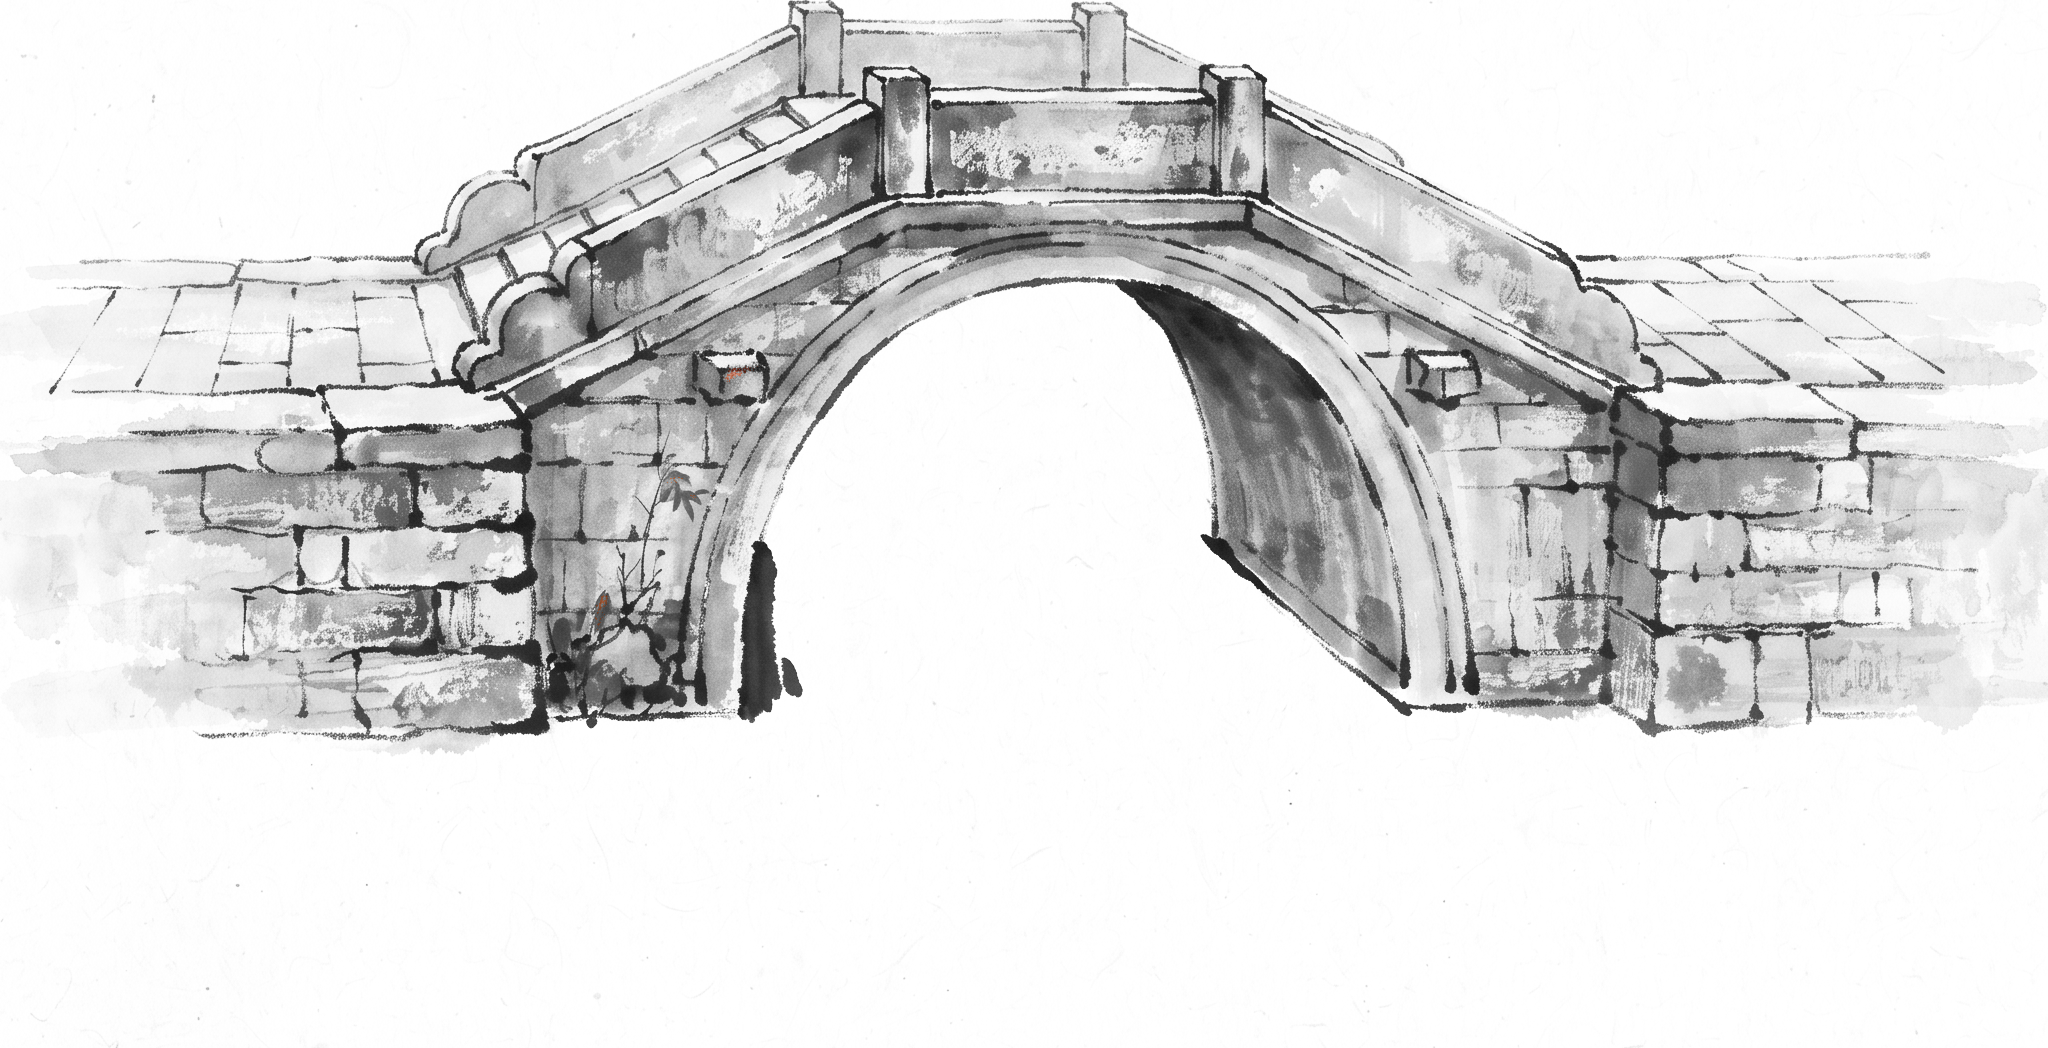
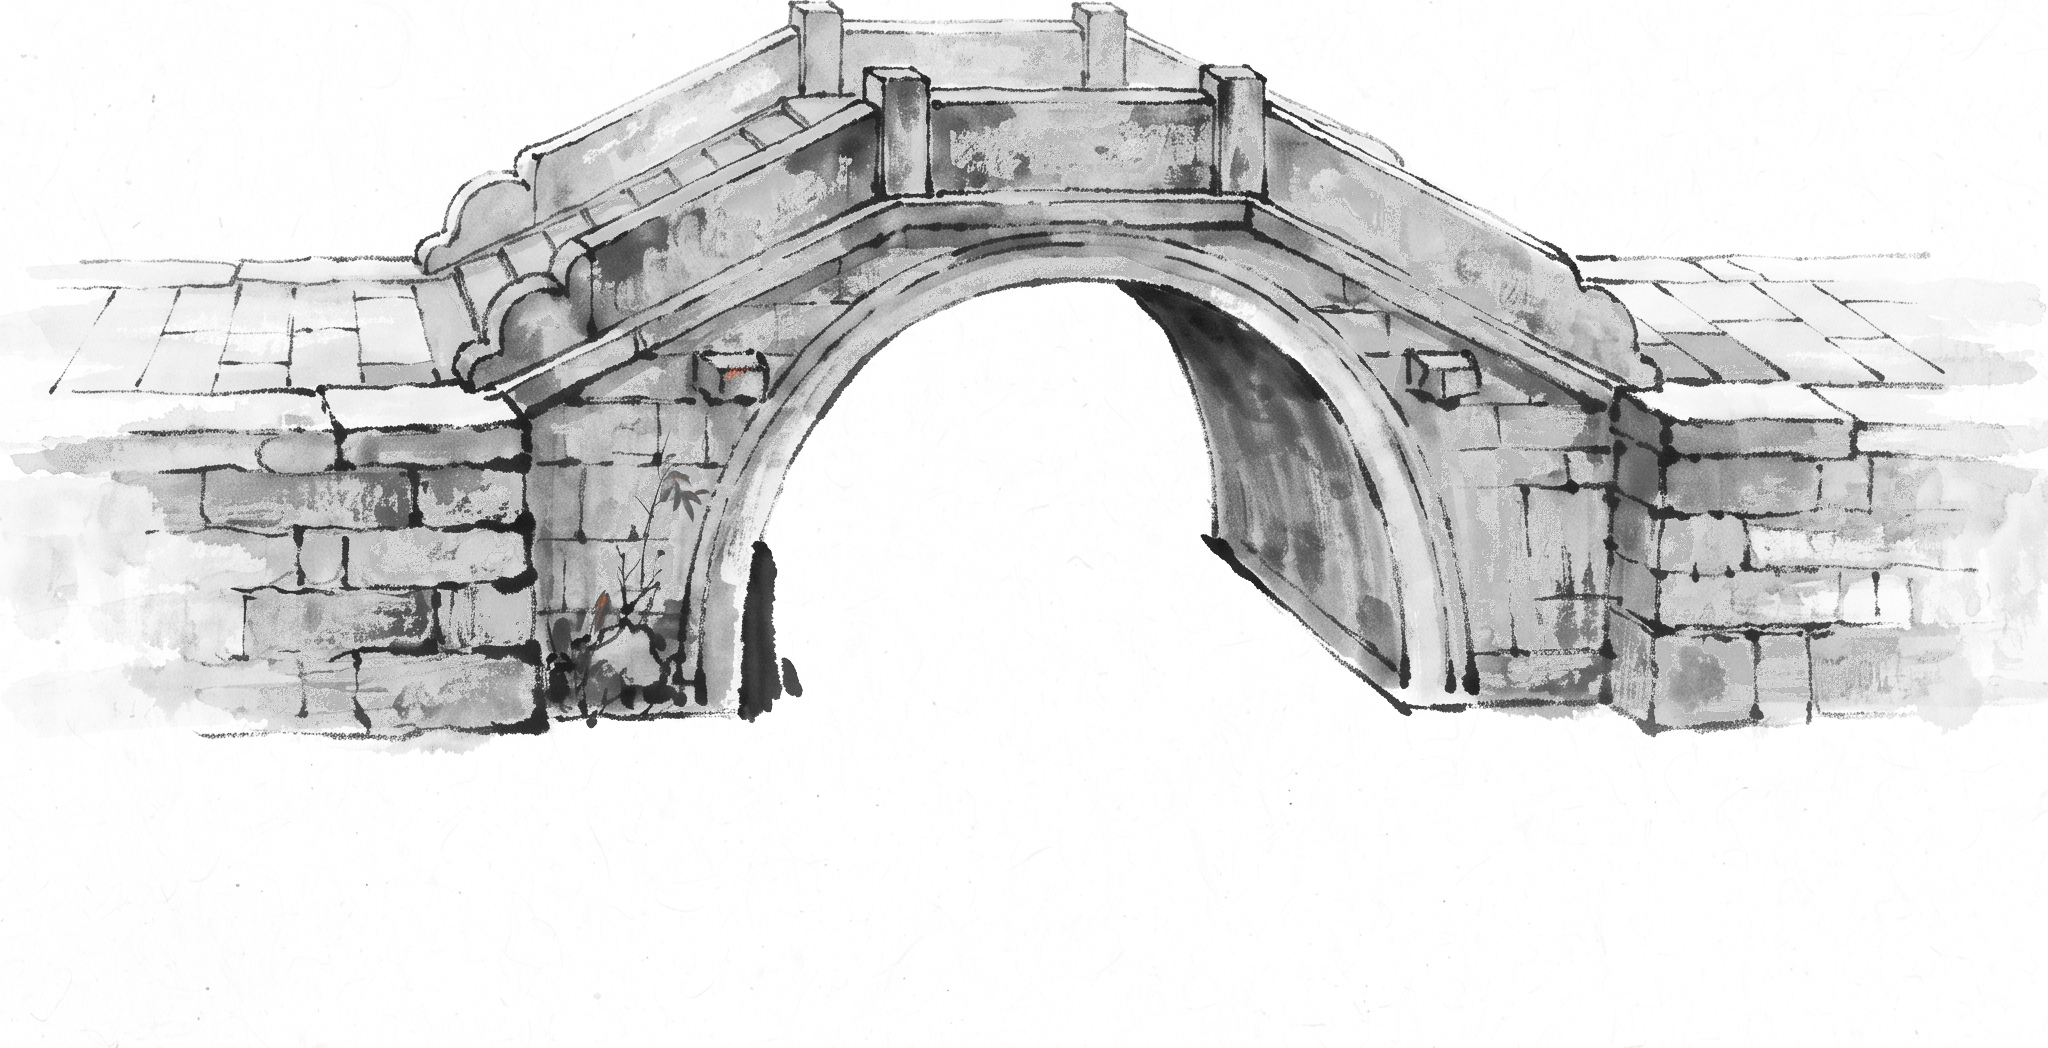
Seal the arch - she could see the wall through the bridge
The bridge's arch is drawn as bare paper, and alpha_plate turns bare
paper transparent, so the embankment BEHIND the bridge showed through
its own arch. She could see the wall she was walking along through the
hole in the bridge.

A pipeline artefact rather than an art problem, so it is fixed in the
pipeline. alpha_plate now seals ENCLOSED transparency on plates that
ask for it: flood the outside from a one-pixel transparent border, and
whatever transparency is left over is a hole in the object rather than
space around it. 129,556 pixels of arch sealed.

Only bridge-walkover is in the SEAL set. Most plates want their gaps -
the willow's branches, the space between two door gods - and sealing
those would fill them with paper.

What belongs under an arch is the side canal it spans, and the plate
already says so by leaving it empty. Now it occludes instead of
revealing the wrong thing.

diff --git a/tools/alpha_plate.py b/tools/alpha_plate.py
@@ -20,7 +20,35 @@ import os
 import sys
 
 import numpy as np
-from PIL import Image
+from PIL import Image, ImageDraw
+
+
+# Plates whose enclosed empty areas must NOT become see-through. The
+# arch of a bridge is drawn as bare paper, and bare paper becomes
+# transparent - so the embankment BEHIND the bridge showed through its
+# own arch, as if she could see the wall she was walking along through
+# the hole in the bridge. What belongs under an arch is the side canal
+# it spans, and the plate says so by leaving it empty.
+SEAL = {"bridge-walkover"}
+
+
+def seal_holes(alpha):
+    """Make enclosed transparent regions opaque.
+
+    Enclosed means: transparent, and not reachable from outside the
+    picture. Flood the OUTSIDE from a one-pixel transparent border and
+    whatever transparency is left over is a hole in the object rather
+    than space around it.
+    """
+    h, w = alpha.shape
+    mask = Image.new("L", (w + 2, h + 2), 255)
+    mask.paste(Image.fromarray(((alpha < 0.5) * 255).astype(np.uint8)), (1, 1))
+    ImageDraw.floodfill(mask, (0, 0), 128)
+    inner = np.asarray(mask)[1:-1, 1:-1]
+    enclosed = inner == 255
+    out = alpha.copy()
+    out[enclosed] = 1.0
+    return out, int(enclosed.sum())
 
 
 def to_alpha(path):
@@ -33,23 +61,28 @@ def to_alpha(path):
     paper = np.percentile(lum, 98)
     alpha = np.clip((paper - lum) / max(paper * 0.55, 1.0), 0.0, 1.0)
 
+    sealed = 0
+    if os.path.basename(path)[:-4] in SEAL:
+        alpha, sealed = seal_holes(alpha)
+
     out = np.dstack([a, alpha * 255.0]).astype(np.uint8)
-    return Image.fromarray(out, "RGBA"), float(paper), float(alpha.mean())
+    return Image.fromarray(out, "RGBA"), float(paper), float(alpha.mean()), sealed
 
 
 def main():
     if "--all" in sys.argv:
         os.makedirs("assets/plates-alpha", exist_ok=True)
         for f in sorted(glob.glob("assets/plates/*.png")):
-            im, paper, cover = to_alpha(f)
+            im, paper, cover, sealed = to_alpha(f)
             dst = "assets/plates-alpha/" + os.path.basename(f)
             im.save(dst)
+            note = f"  sealed {sealed} px" if sealed else ""
             print(f"  {os.path.basename(f)[:-4]:24} paper {paper:5.1f}  "
-                  f"mean alpha {cover:.3f}")
+                  f"mean alpha {cover:.3f}{note}")
         return
-    im, paper, cover = to_alpha(sys.argv[1])
+    im, paper, cover, sealed = to_alpha(sys.argv[1])
     im.save(sys.argv[2])
-    print(f"paper {paper:.1f}  mean alpha {cover:.3f}  -> {sys.argv[2]}")
+    print(f"paper {paper:.1f}  mean alpha {cover:.3f}  sealed {sealed} -> {sys.argv[2]}")
 
 
 if __name__ == "__main__":
